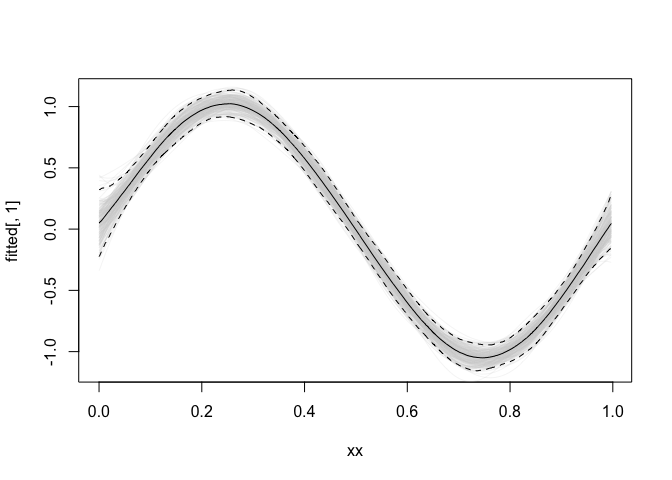
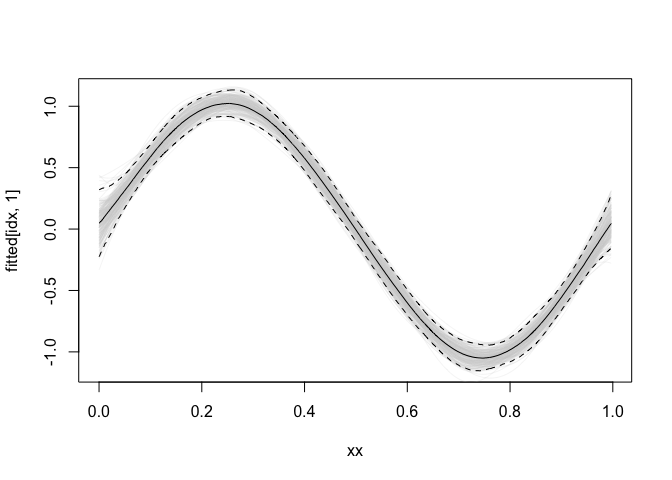
added functionality for by variables

diff --git a/README.md b/README.md
@@ -1,7 +1,7 @@
 Semi-parametric Benchmark Dosing with semibmd
 ================
 Alex Stringer
-2023-02-22
+2023-03-01
 
 # Install the `semibmd` package
 
@@ -34,12 +34,12 @@ head(dat)
 ```
 
     ##            y           x        x1        x2
-    ## 1  3.1527499 0.000000000 0.9931191 0.8112452
-    ## 2  3.5555435 0.001001001 0.5799711 0.3186139
-    ## 3  1.5529567 0.002002002 0.1273123 0.2089178
-    ## 4  0.7761285 0.003003003 0.4893187 0.9088333
-    ## 5 -0.6459241 0.004004004 0.6541552 0.8770516
-    ## 6 -0.1262612 0.005005005 0.3598763 0.9591376
+    ## 1  1.9994748 0.000000000 0.2244994 0.4272809
+    ## 2  3.5659719 0.001001001 0.6792357 0.5067146
+    ## 3  2.0950913 0.002002002 0.5415578 0.4952741
+    ## 4  2.0352977 0.003003003 0.9846344 0.6402956
+    ## 5 -0.2218419 0.004004004 0.6608238 0.4663065
+    ## 6  0.5493814 0.005005005 0.6450404 0.8538231
 
 The exposure variable is `x` and there are two additional variables `x1`
 and `x2` that can be included in the model.
@@ -98,26 +98,26 @@ summary(mod)
     ## 
     ## Parametric coefficients:
     ##             Estimate Std. Error t value Pr(>|t|)    
-    ## (Intercept)   0.7159     0.2979   2.403   0.0164 *  
-    ## x1            2.0824     0.1102  18.894  < 2e-16 ***
-    ## x2           -0.8446     0.1079  -7.826 1.28e-14 ***
+    ## (Intercept)   0.8613     0.3026   2.846  0.00451 ** 
+    ## x1            1.9638     0.1081  18.174  < 2e-16 ***
+    ## x2           -0.9853     0.1087  -9.063  < 2e-16 ***
     ## ---
     ## Signif. codes:  0 '***' 0.001 '**' 0.01 '*' 0.05 '.' 0.1 ' ' 1
     ## 
     ## Approximate significance of smooth terms:
     ##        edf Ref.df     F  p-value    
-    ## s(x) 1.993  2.442 13.32 4.27e-07 ***
+    ## s(x) 2.006  2.455 14.83 7.62e-08 ***
     ## ---
     ## Signif. codes:  0 '***' 0.001 '**' 0.01 '*' 0.05 '.' 0.1 ' ' 1
     ## 
-    ## R-sq.(adj) =  0.3168   Deviance explained = 31.9%
-    ## GCV score = 0.99588  Scale est. = 0.99091   n = 1000
+    ## R-sq.(adj) =  0.3108   Deviance explained = 31.4%
+    ## GCV score = 0.99827  Scale est. = 0.99328   n = 1000
     ## 
     ## ---
     ## Benchmark dose summary:
     ## ---
     ##      bmd   bmdl
-    ## 1 0.2653 0.1182
+    ## 1 0.2588 0.1149
     ## ---
 
 ``` r
@@ -167,25 +167,25 @@ summary(mod)
     ## 
     ## Parametric coefficients:
     ##             Estimate Std. Error t value Pr(>|t|)    
-    ## (Intercept)  0.03150    0.08626   0.365    0.715    
-    ## x1           2.08357    0.11019  18.909  < 2e-16 ***
-    ## x2          -0.84157    0.10790  -7.800 1.56e-14 ***
+    ## (Intercept)  0.16284    0.08297   1.963     0.05 *  
+    ## x1           1.96751    0.10818  18.188   <2e-16 ***
+    ## x2          -0.98329    0.10869  -9.046   <2e-16 ***
     ## ---
     ## Signif. codes:  0 '***' 0.001 '**' 0.01 '*' 0.05 '.' 0.1 ' ' 1
     ## 
     ## Approximate significance of smooth terms:
-    ##       edf Ref.df     F  p-value    
-    ## s(x) 2.17  2.698 12.37 1.28e-06 ***
+    ##        edf Ref.df     F  p-value    
+    ## s(x) 2.196  2.731 12.28 1.29e-06 ***
     ## ---
     ## Signif. codes:  0 '***' 0.001 '**' 0.01 '*' 0.05 '.' 0.1 ' ' 1
     ## 
-    ## R-sq.(adj) =  0.317   Deviance explained =   32%
-    ## GCV = 0.99585  Scale est. = 0.99071   n = 1000
+    ## R-sq.(adj) =  0.311   Deviance explained = 31.4%
+    ## GCV = 0.99835  Scale est. = 0.99317   n = 1000
     ## ---
     ## Benchmark dose summary:
     ## ---
     ##      bmd   bmdl
-    ## 1 0.3216 0.1794
+    ## 1 0.3158 0.1758
     ## ---
 
 ``` r
@@ -232,7 +232,7 @@ various getter functions to get everything:
 get_bmd(mod)
 ```
 
-    ## [1] 0.3215382 0.1793811
+    ## [1] 0.3158169 0.1757731
 
 ``` r
 # All BMDLs:
@@ -240,7 +240,7 @@ get_all_bmdl(mod)
 ```
 
     ##      score      delta  bootstrap 
-    ## 0.17938111 0.09711315 0.17856656
+    ## 0.17577313 0.09277874 0.18861372
 
 # Errors and diagnostics
 
@@ -267,14 +267,14 @@ get_uxb(mod)
 ```
 
     ##            1 
-    ## 1.123049e-09
+    ## 1.799314e-09
 
 ``` r
 get_psixl(mod)
 ```
 
     ##               1
-    ## 1 -4.634262e-10
+    ## 1 -4.356204e-10
 
 ``` r
 # Approximation quantities: variance and derivative of U at BMD (used for delta method)
@@ -282,15 +282,15 @@ get_approximations(mod)
 ```
 
     ##         Vn        Upn 
-    ## 0.01031609 0.88702184
+    ## 0.01040667 0.89644726
 
 ``` r
 # Computation times of each step
 get_computation_times(mod)
 ```
 
-    ##       model         bmd  bmdl_score  bmdl_delta   bmdl_boot       total 
-    ## 0.035870075 0.011064768 0.015925884 0.006181002 9.743435144 9.812476873
+    ##        model          bmd   bmdl_score   bmdl_delta    bmdl_boot        total 
+    ##  0.032787085  0.009737968  0.014474869  0.005775928 10.452320099 10.515095949
 
 # New Smoothing Method using TMB
 
@@ -630,3 +630,80 @@ with(plotdata[[1]],graphics::abline(v = get_bmd(mod2_tmb)[2],lty='dotdash'))
 ![](README_files/figure-gfm/multismoothplotmanual-1.png)<!-- -->
 
 The plot data for the other smooths is identical.
+
+## By Variables
+
+`by` variables in smooths are handled by `mgcv` internally, and the
+necessary modifications have been made to `semibmd::benchmark_dose_tmb`
+to handle them. Here is an example.
+
+``` r
+simulate_data_by <- function(n,params) {
+  # Will return data of size 2n
+  xcov <- rep(with(params,seq(xmin,xmax,length.out=n)),2)
+  z <- with(params,runif(2*n,xmin,xmax))
+  id <- rep(c(1,2),each=n)
+
+
+  fz1 <- function(z) sin(2*pi*z)
+  fz2 <- function(z) cos(2*pi*z)
+
+  dat <- data.frame(
+    x = xcov,
+    z = z,
+    id = factor(id)
+  )
+  mu <- params$f(xcov)
+  mu[id==1] <- mu[id==1] + fz1(z[id==1])
+  mu[id==2] <- mu[id==2] + fz2(z[id==2])
+  dat$y = rnorm(2*n,mu,params$sigma)
+
+  dat
+}
+
+set.seed(8732)
+dat4 <- simulate_data_by(500,params3) # 2 groups, 500 per group
+mod3_tmb <- benchmark_dose_tmb(
+  monosmooths = list(s(x,bs='bs')),
+  smooths = list(s(z,bs='bs',by=id)),
+  linearterms = NULL,
+  data = dat4,
+  exposure = 'x',
+  response = 'y',
+  x0 = 0,
+  p0 = .01,
+  BMR = .01,
+  verbose = TRUE,
+  eps = 1e-06,
+  maxitr = 10,
+  bayes_boot = 1e03
+)
+summary(mod3_tmb)
+```
+
+    ## ---
+    ## Dose-response model summary:
+    ## ---
+    ## [1] "Monotone Additive Model fit using Laplace-Approximate Marginal Likelihood in TMB"
+    ## ---
+    ## Benchmark dose summary:
+    ## ---
+    ##      bmd   bmdl
+    ## 1 0.0229 0.0146
+    ## ---
+
+``` r
+params3$xb
+```
+
+    ## [1] 0.02930584
+
+The `plot` method will plot the smooths for each factor level completely
+separately. I can change this, I just did it this way because I didn’t
+have a better idea.
+
+``` r
+plot(mod3_tmb)
+```
+
+![](README_files/figure-gfm/plot-by-1.png)<!-- -->![](README_files/figure-gfm/plot-by-2.png)<!-- -->![](README_files/figure-gfm/plot-by-3.png)<!-- -->
